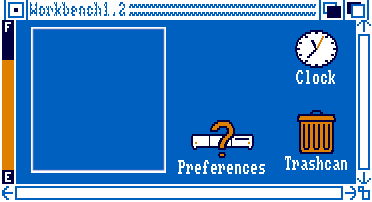
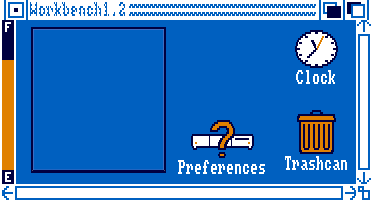
demo2.1-karateka-walk

Changed region(s): [[0.0591, 0.1485, 0.4435, 0.8614], [0.0887, 0.1188, 0.4435, 0.1485]]

diff --git a/games-anims/demo2/src/main/c64.py b/games-anims/demo2/src/main/c64.py
@@ -4,6 +4,7 @@ import logging
 
 from src.main.utils import Utils, Constants
 from src.main.computer import Computer
+from src.main.karateka import Karateka
 
 from PIL import Image, ImageDraw, ImageFont
 
@@ -27,7 +28,14 @@ class Cursor:
     def move_right(self):
         new_position = (self.position[0] + 1, self.position[1])
         self.position = new_position
-        time.sleep(6)
+        time.sleep(1)
+
+
+    def move_down(self):
+        new_position = (self.position[0], self.position[1] + 1)
+        self.position = new_position
+        logging.info("Cursor position %d, %d", new_position[0], new_position[1])
+        time.sleep(1)
         
 
 class C64(Computer):
@@ -37,7 +45,11 @@ class C64(Computer):
     def __init__(self, screen):
         super().__init__()
         self.screen = screen
+        self.screenshot = None
         self.location = (52, 77)
+        self.sprite_bitmap = None
+        self.background_bitmap = Utils.load_background("src/main/resources/c64slim.png")
+        self.karateka = Karateka(90, 480)
         self.font_path = "src/main/resources/C64_Pro_Mono-STYLE.ttf"
         self.caption_font = ImageFont.truetype(self.font_path, 18)
         self.cursor = Cursor(self.location)
@@ -47,9 +59,8 @@ class C64(Computer):
         
     
     def draw_background(self):
-        self.screen.fill(Constants.LIGHT_BLUE)
-        background_bitmap = Utils.load_background("src/main/resources/c64slim.png")
-        self.screen.blit(background_bitmap, self.location)
+        self.screen.fill(Constants.LIGHT_BLUE)        
+        self.screen.blit(self.background_bitmap, self.location)
         pygame.display.flip()
 
 
@@ -70,25 +81,66 @@ class C64(Computer):
             self.clock.tick(40)
 
 
-    def write(self, letter):
-        point = self.cursor.get_screen_position()
-        pygame.draw.rect(self.screen, Constants.BLUE, (point, (C64.line_size, C64.line_size)))
+    def toggle_screen(self, duration_ms):
+        self.take_screenshot()
+        self.screen.fill(Constants.LIGHT_BLUE)
+        pygame.display.flip()
+        pygame.time.delay(duration_ms)
         
-        self.draw.text((0, 0), letter, font=self.caption_font, fill = Constants.LIGHT_BLUE)
-        self.screen.blit(self.caption_surface, point)
+        self.screen.blit(self.screenshot, (0, 0))
+        pygame.display.flip()
         
-        pygame.display.update()
-        self.cursor.move_right()
+    
+    def take_screenshot(self):
+        self.screenshot = pygame.Surface((self.screen.get_width(), self.screen.get_height()))
+        self.screenshot.blit(self.screen, (0, 0))
         
-    def writeline(self, text):
-        caption_text = "PRESS PLAY ON TAPE"
-        
-        caption_image = Image.new("RGB", (self.cursor.get_screen_position()[0], C64.line_size), Constants.BLUE)
+
+    def writeline(self, caption_text):
+        caption_image = Image.new("RGB", (20 * len(caption_text), C64.line_size), Constants.BLUE)
         
         draw = ImageDraw.Draw(caption_image)
-        draw.text((0, 0), caption_text, font=self.caption_font, fill=Constants.BLUE)
+        draw.text((0, 0), caption_text, font=self.caption_font, fill=Constants.LIGHT_BLUE)
 
         caption_surface = pygame.image.fromstring(caption_image.tobytes(), caption_image.size, caption_image.mode)
         self.screen.blit(caption_surface, self.cursor.get_screen_position())
         pygame.display.flip()
-        self.cursor.move_right()
+        self.cursor.move_down()
+
+
+    def walk_karateka1(self, duration_ms):
+        height = 76
+
+        start_time = pygame.time.get_ticks()
+        acceleration = 0
+        while pygame.time.get_ticks() - start_time <= duration_ms:        
+            self.karateka.step_right()
+            self.draw_sprite()
+            
+            pygame.draw.rect(self.screen, Constants.BLUE, ((self.location[0] + 2, self.location[1] + Constants.SCREEN_HEIGHT - 30), (Constants.SCREEN_WIDTH - 10, 71)))
+            
+            self.clock.tick(30)
+
+
+    def draw_sprite(self):
+        path = self.karateka.get_sprite_path()
+        self.sprite_bitmap = pygame.image.load(path).convert_alpha()
+        
+        x = self.karateka.x - self.sprite_bitmap.get_width() / 2
+        y = self.karateka.y - self.sprite_bitmap.get_height() / 2
+        
+        self.karateka.width = self.sprite_bitmap.get_width()
+        self.karateka.height = self.sprite_bitmap.get_height()
+        
+        self.screen.blit(self.sprite_bitmap, (x, y))
+        pygame.display.update()
+
+
+    def open_passage(self, duration_ms):
+        height = 76
+        position = (self.location[0] + self.background_bitmap.get_width(), self.location[1] + self.background_bitmap.get_height() - height)
+        logging.info("Opening portal at %d, %d", position[0], position[1])
+        pygame.draw.rect(self.screen, Constants.BLUE, (position, (55, height)))
+        pygame.display.flip()
+        pygame.time.delay(2000)
+        

diff --git a/games-anims/demo2/src/main/sprite.py b/games-anims/demo2/src/main/sprite.py
@@ -1,0 +1,69 @@
+from collections import deque
+from itertools import cycle
+
+
+class Sprite:
+
+    def __init__(self, x, y, name):
+        self.path = ""
+        self.x = x
+        self.y = y
+        self.width = 2
+        self.height = 2
+        self.active = True
+        self.moveable = True
+        self.name = name
+        self.kick_phase = ''
+        self.walk_phase = ''
+        self.walk_phases = deque(['w1', 'w2', 'w3'], maxlen=3)
+        self._cyclic_iterator = cycle(self.walk_phases)
+        self.counter = 0
+        self.anim_counter_threshold = 1
+
+    def stand(self):
+        self.kick_phase = ''
+        self.walk_phase = ''
+
+    def kick(self):
+        if self.moveable:
+            self.kick_phase = '_kick'
+            self.walk_phase = '_kick'
+
+    def punch(self):
+        if self.moveable:
+            self.kick_phase = '_punch'
+            self.walk_phase = '_punch'
+
+    def step_right(self):
+        if self.moveable:
+            self.kick_phase = ''
+            self.x += 4
+            self.walk_phase = next(self._cyclic_iterator)
+
+    def reset(self):
+        pass
+
+    def move(self):
+        pass
+
+    def step_left(self):
+        if self.moveable:
+            self.x -= 4
+
+    def step_down(self):
+        self.y += 4
+
+    def turn_left(self):
+        pass
+
+    def turn_right(self):
+        pass
+
+    def activate(self):
+        self.active = True
+
+    def disable_move(self):
+        self.moveable = False
+
+    def get_sprite_path(self):
+        return ""

diff --git a/games-anims/demo2/src/main/amiga.py b/games-anims/demo2/src/main/amiga.py
@@ -2,6 +2,7 @@ import pygame
 
 from src.main.utils import Utils
 from src.main.computer import Computer
+from src.main.karateka import Karateka
 
 class Amiga(Computer):
 
@@ -25,7 +26,7 @@ class Amiga(Computer):
         pygame.display.flip()
 
 
-    def draw_superfrog(self):
+    def draw_superfrog_icon(self):
         self.screen.blit(self.superfrog_bitmap, (91, self.h + 27))
         pygame.display.flip()
 
@@ -34,7 +35,7 @@ class Amiga(Computer):
         start_time = pygame.time.get_ticks()
         self.draw_background()
         self.draw_window()
-        self.draw_superfrog()
+        self.draw_superfrog_icon()
 
         while pygame.time.get_ticks() - start_time <= duration_ms:
             pass
@@ -46,7 +47,7 @@ class Amiga(Computer):
         while pygame.time.get_ticks() - start_time <= duration_ms:        
             self.draw_background()
             self.draw_window()
-            self.draw_superfrog()
+            self.draw_superfrog_icon()
             acceleration += 0.3
             self.h += int(1 + acceleration)
             

diff --git a/games-anims/demo2/demo2.py b/games-anims/demo2/demo2.py
@@ -15,10 +15,19 @@ class Demo:
         
     def phase1(self):
         print("phase 1")
-        self.c64.handle_cursor(3500)
-        for letter in "LOAD":
-            logging.info(letter)
-            #self.c64.writeline(letter)
+        self.c64.handle_cursor(35)
+        for line in ("LOAD", " ", "PRESS PLAY ON TAPE"):
+            self.c64.writeline(line)
+        
+        self.c64.toggle_screen(25)
+        
+        for line in ("LOADING", "READY", "RUN"):
+            self.c64.writeline(line)
+        
+        self.c64.draw_sprite()
+        pygame.time.delay(1000)
+        self.c64.walk_karateka1(5000)
+        self.c64.open_passage(2500)
 
         
     def phase2(self):
@@ -30,7 +39,7 @@ class Demo:
         a = Amiga(self.screen)
         a.draw(2500)
         a.dropping(6500)
-        a.wait(4000)
+        pygame.time.delay(4000)
 
 
     def phase4(self):

diff --git a/games-anims/demo2/src/main/karateka.py b/games-anims/demo2/src/main/karateka.py
@@ -1,0 +1,13 @@
+from src.main.sprite import Sprite
+
+class Karateka(Sprite):
+
+    def __init__(self, x, y):
+        super().__init__(x, y, "karateka")
+        self.path = "src/main/resources/k.png"
+
+    def step_right(self):
+        super().step_right()
+
+    def get_sprite_path(self):
+        return "src/main/resources/k" + self.walk_phase + ".png"

diff --git a/games-anims/demo2/src/main/computer.py b/games-anims/demo2/src/main/computer.py
@@ -5,10 +5,3 @@ class Computer:
     
     def __init__(self):
         self.clock = pygame.time.Clock()
-        
-
-    def wait(self, duration_ms):
-        start_time = pygame.time.get_ticks()
-        while pygame.time.get_ticks() - start_time <= duration_ms: 
-        
-            self.clock.tick(60)
